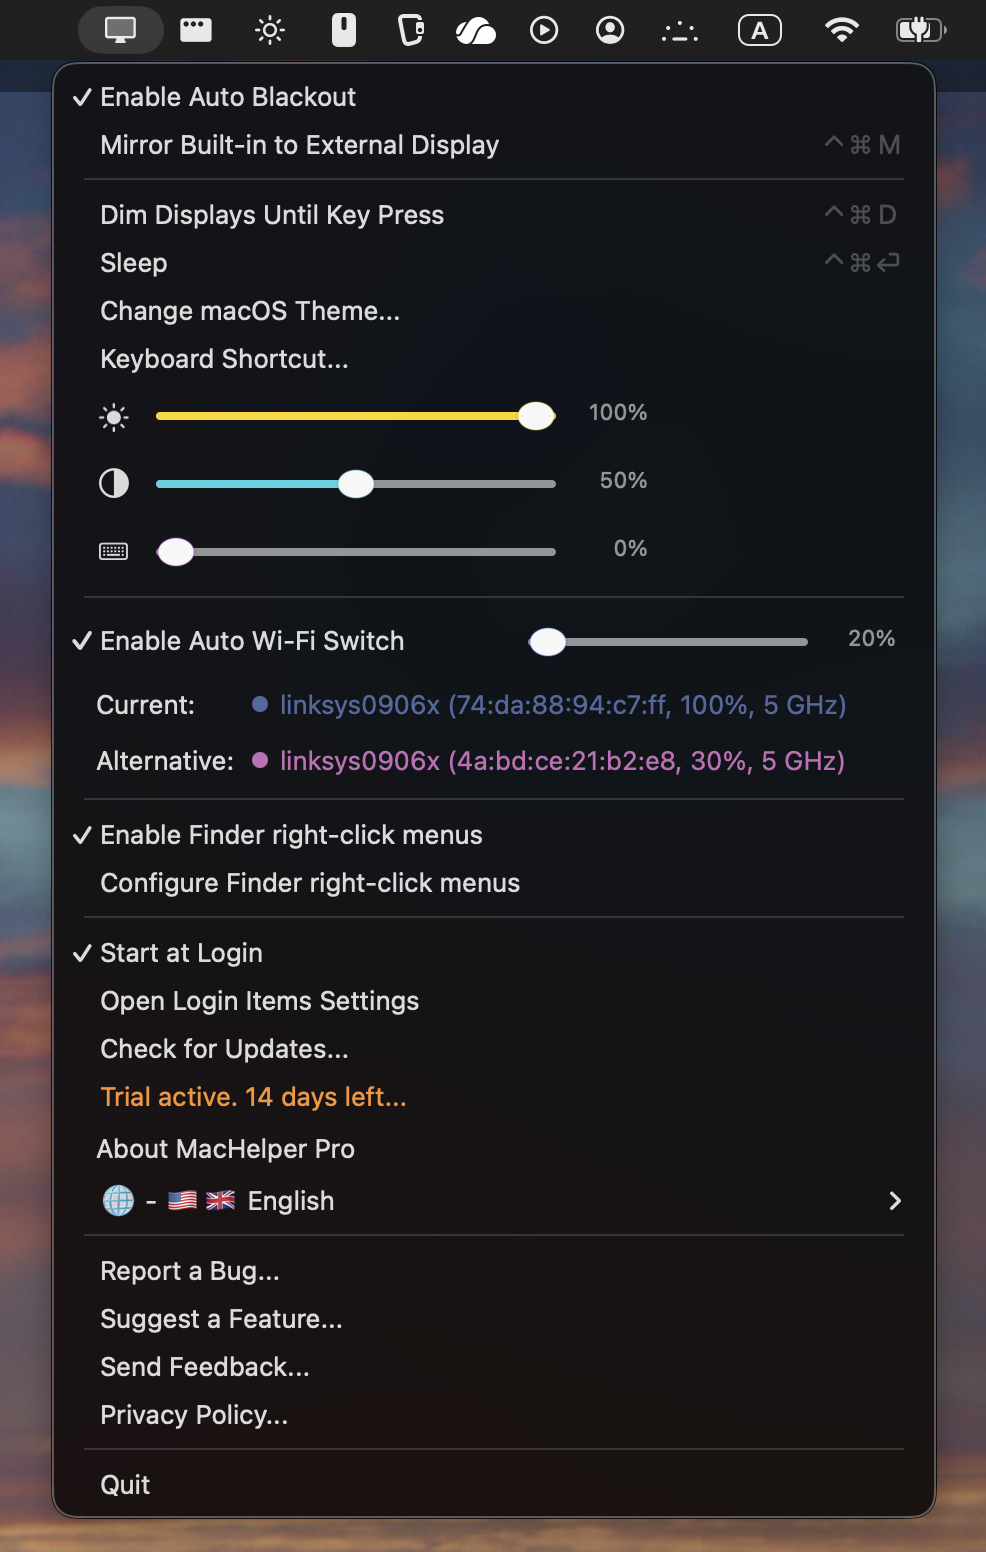
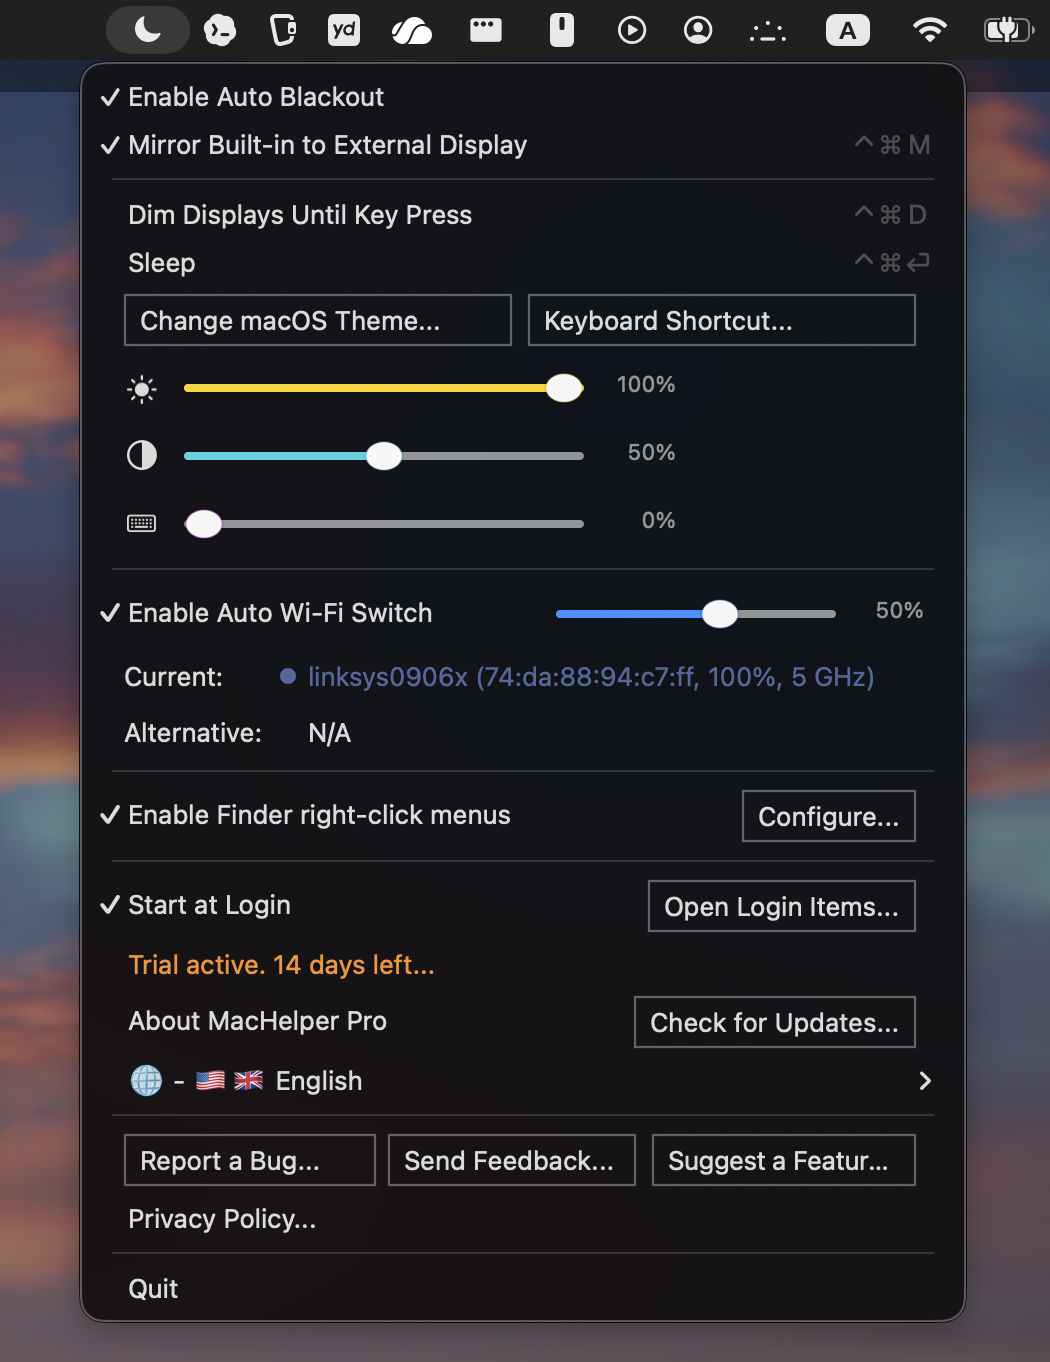
Update MacHelper Pro website screenshot

diff --git a/ar/index.html b/ar/index.html
@@ -145,7 +145,7 @@
           </div>
           <figure class="menu-screenshot">
             <img
-              src="../assets/machelperpro-menu.png?v=20260606"
+              src="../assets/machelperpro-menu.png?v=20260609"
               width="986"
               height="1552"
               loading="lazy"

diff --git a/compact.html b/compact.html
@@ -85,7 +85,7 @@
           </div>
           <figure class="menu-screenshot">
             <img
-              src="assets/machelperpro-menu.png?v=20260606"
+              src="assets/machelperpro-menu.png?v=20260609"
               width="986"
               height="1552"
               loading="lazy"

diff --git a/cs/index.html b/cs/index.html
@@ -145,7 +145,7 @@
           </div>
           <figure class="menu-screenshot">
             <img
-              src="../assets/machelperpro-menu.png?v=20260606"
+              src="../assets/machelperpro-menu.png?v=20260609"
               width="986"
               height="1552"
               loading="lazy"

diff --git a/da/index.html b/da/index.html
@@ -145,7 +145,7 @@
           </div>
           <figure class="menu-screenshot">
             <img
-              src="../assets/machelperpro-menu.png?v=20260606"
+              src="../assets/machelperpro-menu.png?v=20260609"
               width="986"
               height="1552"
               loading="lazy"

diff --git a/de/index.html b/de/index.html
@@ -145,7 +145,7 @@
           </div>
           <figure class="menu-screenshot">
             <img
-              src="../assets/machelperpro-menu.png?v=20260606"
+              src="../assets/machelperpro-menu.png?v=20260609"
               width="986"
               height="1552"
               loading="lazy"

diff --git a/es/index.html b/es/index.html
@@ -145,7 +145,7 @@
           </div>
           <figure class="menu-screenshot">
             <img
-              src="../assets/machelperpro-menu.png?v=20260606"
+              src="../assets/machelperpro-menu.png?v=20260609"
               width="986"
               height="1552"
               loading="lazy"

diff --git a/fi/index.html b/fi/index.html
@@ -145,7 +145,7 @@
           </div>
           <figure class="menu-screenshot">
             <img
-              src="../assets/machelperpro-menu.png?v=20260606"
+              src="../assets/machelperpro-menu.png?v=20260609"
               width="986"
               height="1552"
               loading="lazy"

diff --git a/fr/index.html b/fr/index.html
@@ -145,7 +145,7 @@
           </div>
           <figure class="menu-screenshot">
             <img
-              src="../assets/machelperpro-menu.png?v=20260606"
+              src="../assets/machelperpro-menu.png?v=20260609"
               width="986"
               height="1552"
               loading="lazy"

diff --git a/hi/index.html b/hi/index.html
@@ -145,7 +145,7 @@
           </div>
           <figure class="menu-screenshot">
             <img
-              src="../assets/machelperpro-menu.png?v=20260606"
+              src="../assets/machelperpro-menu.png?v=20260609"
               width="986"
               height="1552"
               loading="lazy"

diff --git a/id/index.html b/id/index.html
@@ -145,7 +145,7 @@
           </div>
           <figure class="menu-screenshot">
             <img
-              src="../assets/machelperpro-menu.png?v=20260606"
+              src="../assets/machelperpro-menu.png?v=20260609"
               width="986"
               height="1552"
               loading="lazy"

diff --git a/index.html b/index.html
@@ -151,7 +151,7 @@
           </div>
           <figure class="menu-screenshot">
             <img
-              src="assets/machelperpro-menu.png?v=20260606"
+              src="assets/machelperpro-menu.png?v=20260609"
               width="986"
               height="1552"
               loading="lazy"

diff --git a/it/index.html b/it/index.html
@@ -145,7 +145,7 @@
           </div>
           <figure class="menu-screenshot">
             <img
-              src="../assets/machelperpro-menu.png?v=20260606"
+              src="../assets/machelperpro-menu.png?v=20260609"
               width="986"
               height="1552"
               loading="lazy"